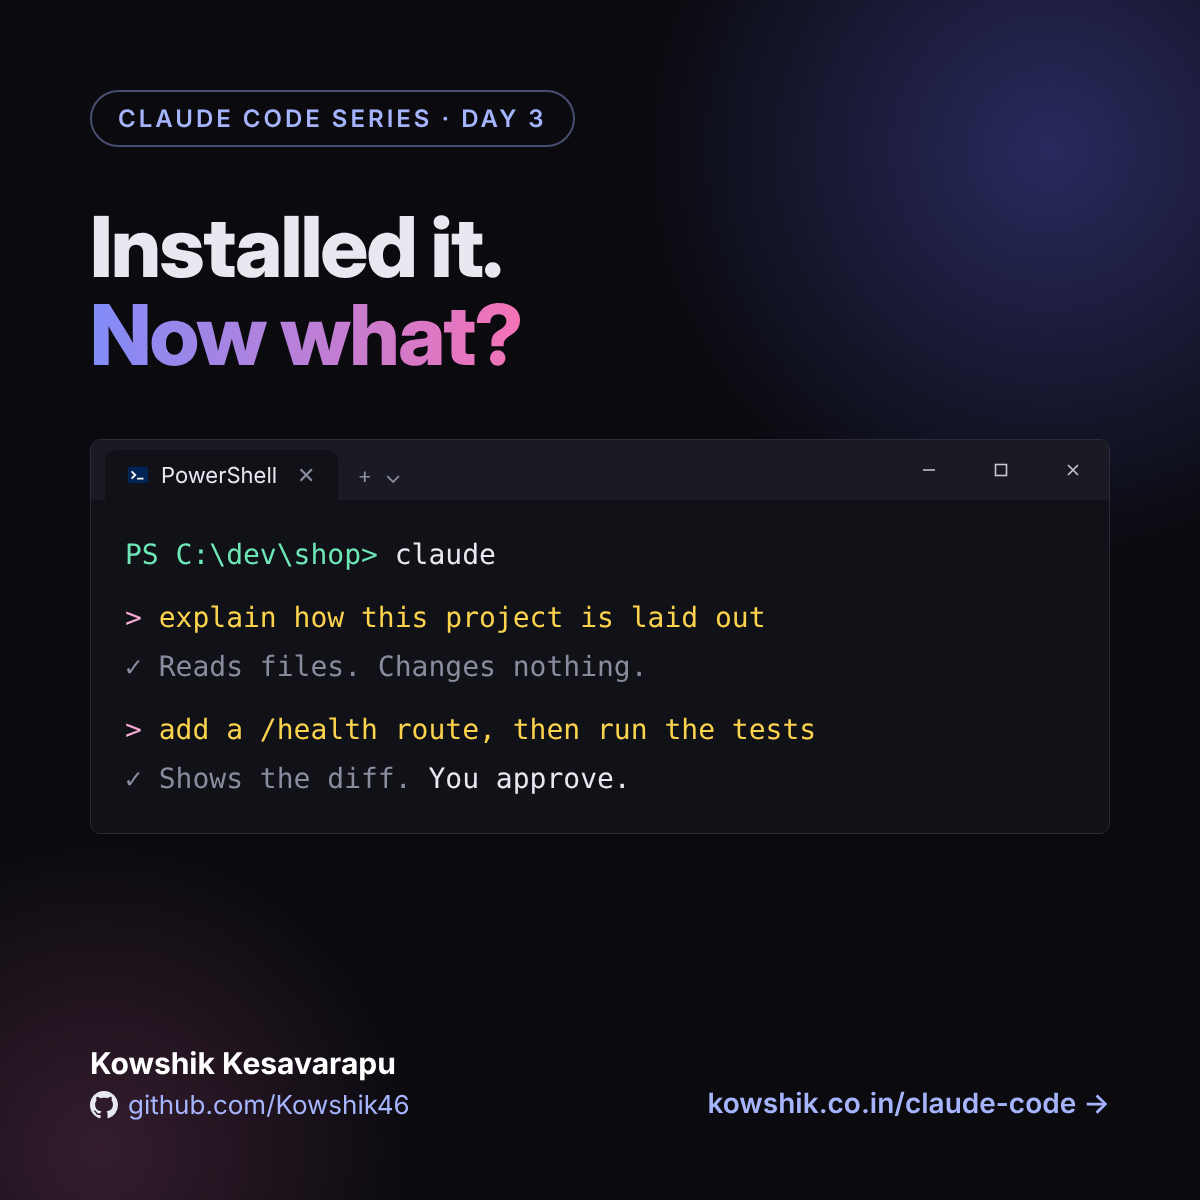
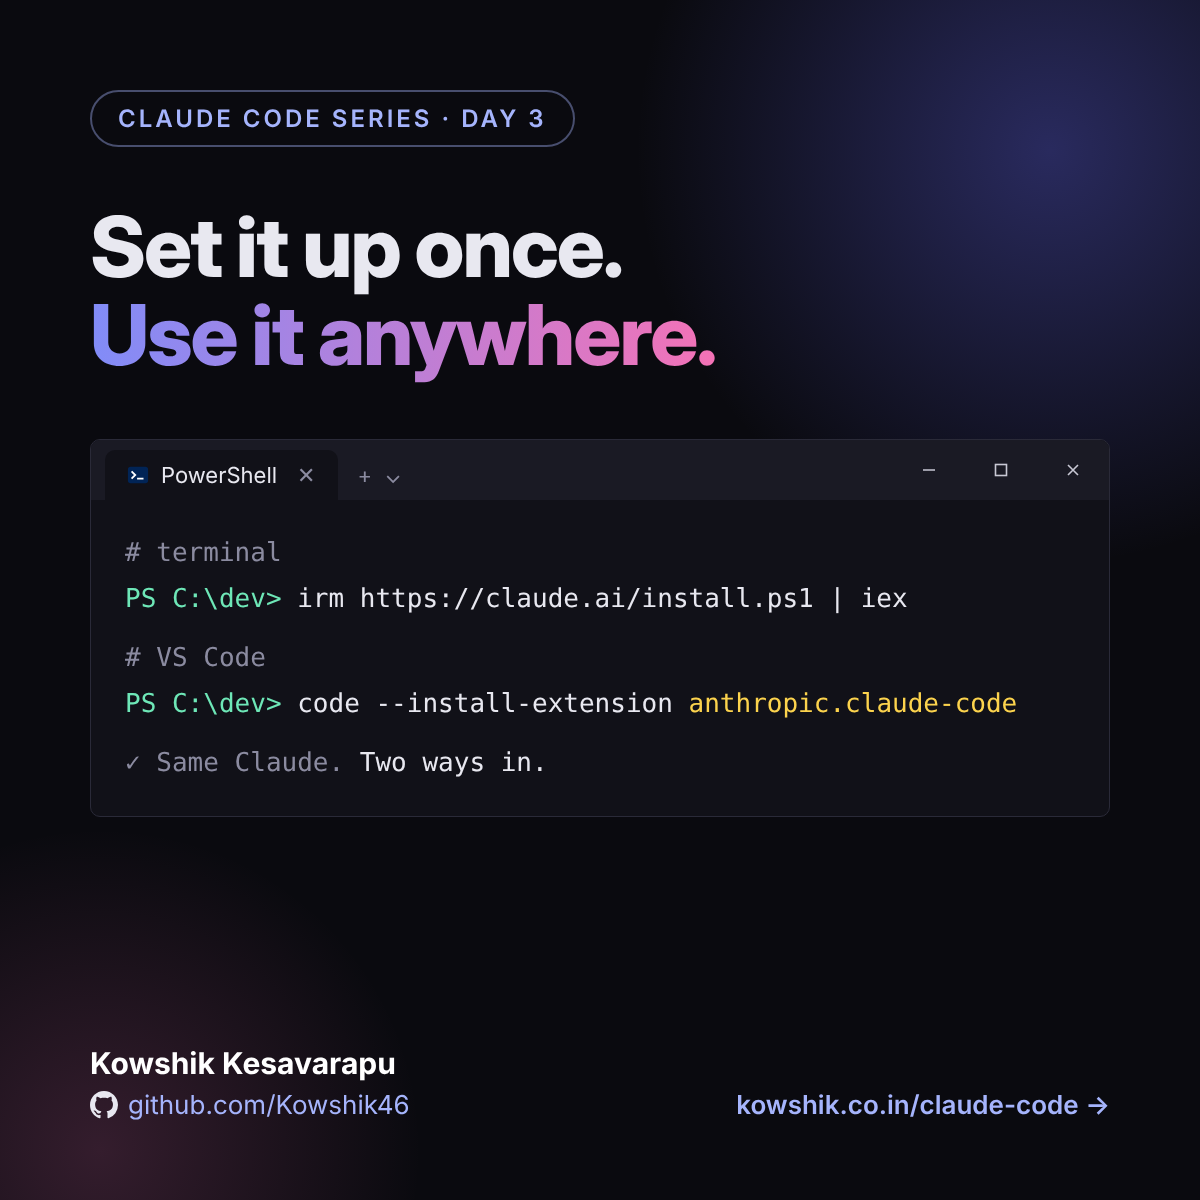
Rework Day 3 into full setup guide: terminal and VS Code, tips, troubleshooting
Claude-Session: https://claude.ai/code/session_014UDmpeyzY3mc8iyZp2Swpj

diff --git a/claude-code/day-03/index.html b/claude-code/day-03/index.html
@@ -3,10 +3,10 @@
 <head>
   <meta charset="UTF-8" />
   <meta name="viewport" content="width=device-width, initial-scale=1.0" />
-  <title>Day 3: Install Claude Code and Run Your First Real Session — Kowshik Kesavarapu</title>
-  <meta name="description" content="How to install Claude Code on Windows, Mac or Linux, sign in, and run a first session that is safe, useful and easy to undo." />
-  <meta property="og:title" content="Day 3: Install it, then run a real first session" />
-  <meta property="og:description" content="Install, sign in, and a first session you can trust." />
+  <title>Day 3: Set Up Claude Code in the Terminal and VS Code — Kowshik Kesavarapu</title>
+  <meta name="description" content="Install Claude Code on Windows, Mac or Linux, add it to VS Code, sign in, and run a first session with tips that save time." />
+  <meta property="og:title" content="Day 3: Set up Claude Code in the terminal and VS Code" />
+  <meta property="og:description" content="Terminal and VS Code setup, plus first-session tips." />
   <meta property="og:image" content="https://kowshik.co.in/claude-code/day-03.png" />
   <meta property="og:url" content="https://kowshik.co.in/claude-code/day-03/" />
   <meta name="twitter:card" content="summary_large_image" />
@@ -46,11 +46,11 @@
   <header class="cc-hero cc-hero-article">
     <div class="cc-wrap">
       <a href="../" class="cc-back"><i class="fas fa-arrow-left"></i> All articles</a>
-      <span class="cc-pill">Day 3 · Getting started</span>
-      <h1>Installed it.<br /><span class="cc-grad">Now what?</span></h1>
+      <span class="cc-pill">Day 3 · Setup</span>
+      <h1>Set it up once.<br /><span class="cc-grad">Use it anywhere.</span></h1>
       <div class="cc-meta">
         <span>By <b>Kowshik Kesavarapu</b></span>
-        <span>6 min read</span>
+        <span>10 min read</span>
         <span>Oct 13, 2026</span>
       </div>
     </div>
@@ -59,57 +59,118 @@
   <main class="cc-wrap">
     <article class="cc-article" id="day-3">
 
-      <h2><span class="num">01</span>Install it</h2>
-      <p>Claude Code runs in your terminal, on Windows, macOS and Linux. The recommended route is the native installer. Open a terminal and run the line for your system:</p>
+      <h2><span class="num">01</span>Pick your way in</h2>
+      <p>Claude Code is the same engine whichever door you use. Pick the one that matches how you already work, and know you can switch later because they share your conversation history.</p>
+      <div class="cc-gaps">
+        <div class="cc-gap">
+          <h3><i>01</i>Terminal (CLI)</h3>
+          <p>The original. Works everywhere, has every command, and is the best fit if you live in a shell or work over SSH.</p>
+        </div>
+        <div class="cc-gap">
+          <h3><i>02</i>VS Code extension</h3>
+          <p>A chat panel inside your editor, with side-by-side diffs, file and selection context, and plan review. The easiest start if VS Code is home.</p>
+        </div>
+        <div class="cc-gap">
+          <h3><i>03</i>Desktop app</h3>
+          <p>A graphical app if you'd rather not use a terminal at all. Not covered today, but worth a look.</p>
+        </div>
+      </div>
+      <p>This article sets up the first two. Most people end up using both: the panel for everyday edits, the terminal for everything else.</p>
 
+      <h2><span class="num">02</span>Setting up the terminal version</h2>
+      <p><b>Check first.</b> You need Windows 10 (1809 or later), macOS 13+, or a recent Ubuntu, Debian or Alpine, with at least 4 GB of RAM and an internet connection. And you need an account: a Claude Pro, Max, Team or Enterprise plan, or an Anthropic Console account. The free Claude plan does not include Claude Code.</p>
+      <p><b>Install.</b> The native installer is the recommended route. Open a terminal and run the line for your system:</p>
       <div class="wt">
         <div class="wt-bar">
           <div class="wt-tab"><span class="wt-ico">&gt;_</span>PowerShell</div>
           <div class="wt-ctl"><span>&#8212;</span><span>&#9744;</span><span>&#10005;</span></div>
         </div>
-<pre><span class="c"># Windows</span>
-<span class="ps">PS C:\&gt;</span> <span class="s">irm https://claude.ai/install.ps1 | iex</span>
+<pre><span class="c"># Windows PowerShell (prompt starts with PS)</span>
+<span class="s">irm https://claude.ai/install.ps1 | iex</span>
 
-<span class="c"># macOS / Linux / WSL</span>
-$ <span class="s">curl -fsSL https://claude.ai/install.sh | bash</span></pre>
+<span class="c"># Windows CMD (no PS in the prompt)</span>
+<span class="s">curl -fsSL https://claude.ai/install.cmd -o install.cmd &amp;&amp; install.cmd &amp;&amp; del install.cmd</span>
+
+<span class="c"># macOS, Linux or WSL</span>
+<span class="s">curl -fsSL https://claude.ai/install.sh | bash</span></pre>
       </div>
-
-      <p>Prefer a package manager? Windows has <code>winget install Anthropic.ClaudeCode</code> and macOS has Homebrew. There is also an npm package (<code>npm install -g @anthropic-ai/claude-code</code>) if you already live in Node. Whichever you pick, close and reopen your terminal afterwards so the <code>claude</code> command is found.</p>
-      <p>Check it worked:</p>
-
+      <p>It prints no progress while it downloads, so don't panic if it looks quiet. When it finishes, <b>open a new terminal window</b> and check:</p>
       <div class="wt">
         <div class="wt-bar">
           <div class="wt-tab"><span class="wt-ico">&gt;_</span>PowerShell</div>
           <div class="wt-ctl"><span>&#8212;</span><span>&#9744;</span><span>&#10005;</span></div>
         </div>
-<pre><span class="ps">PS C:\dev&gt;</span> claude --version
-<span class="ps">PS C:\dev&gt;</span> claude doctor   <span class="c"># checks your install and setup</span></pre>
+<pre><span class="ps">PS C:\dev&gt;</span> claude --version     <span class="c"># prints a version number</span>
+<span class="ps">PS C:\dev&gt;</span> claude doctor        <span class="c"># checks install, settings and updates</span></pre>
       </div>
-
+      <p>Prefer a package manager? Windows has <code>winget install Anthropic.ClaudeCode</code>, macOS has <code>brew install --cask claude-code</code>, and Debian, Fedora and Alpine have apt, dnf and apk repositories. npm works too (<code>npm install -g @anthropic-ai/claude-code</code>, needs Node.js 22 or later). One difference matters: the native installer updates itself in the background, while winget, Homebrew and the Linux package managers do not, so run their upgrade command now and then (or <code>claude update</code> where it applies).</p>
+      <p><b>Windows notes.</b> You don't need to run as Administrator. Git for Windows is optional: with it Claude Code uses Git Bash for shell commands, without it Claude Code uses PowerShell. If you want a Linux toolchain, install inside WSL and use the Linux command there.</p>
       <div class="cc-callout">
-        <p><strong>If something fails:</strong> <code>claude: command not found</code> almost always means the terminal was open before the install, or the install folder isn't on your PATH. Reopen the terminal first. On Windows, if it complains about Git, install Git for Windows and try again. <code>claude doctor</code> tells you what it found.</p>
+        <p><strong>If something fails:</strong> <code>claude</code> not found or not recognized almost always means your terminal was open before the install, so open a new one. Seeing <code>The token '&amp;&amp;' is not a valid statement separator</code> means you pasted the CMD command into PowerShell; <code>'irm' is not recognized</code> means the PowerShell command went into CMD. <code>claude doctor</code> tells you what it found.</p>
       </div>
 
-      <h2><span class="num">02</span>Sign in once</h2>
-      <p>Go to a project folder and type <code>claude</code>. The first run opens your browser to sign in. You need a Claude subscription (Pro or Max) or an Anthropic Console account with API credits. After that it remembers you.</p>
-      <p>It will also ask whether you trust the folder. That prompt is a real safety check, not a formality: Claude Code can read files there and, with your approval, edit them and run commands. Only say yes to folders you actually own or trust.</p>
-
-      <h2><span class="num">03</span>Your first session: look before you touch</h2>
-      <p>The best first prompt changes nothing. Ask it to read:</p>
-
+      <h2><span class="num">03</span>Setting up VS Code</h2>
+      <p>You need VS Code 1.94 or later (check under Help, About) and the same kind of account as above. No API key is needed.</p>
+      <p><b>Install the extension.</b> Press <code>Ctrl+Shift+X</code> (<code>Cmd+Shift+X</code> on Mac), search for <b>Claude Code</b> (publisher: Anthropic) and click Install. Or from a terminal:</p>
       <div class="wt">
         <div class="wt-bar">
           <div class="wt-tab"><span class="wt-ico">&gt;_</span>PowerShell</div>
           <div class="wt-ctl"><span>&#8212;</span><span>&#9744;</span><span>&#10005;</span></div>
         </div>
-<pre><span class="ps">PS C:\dev\shop&gt;</span> claude
+<pre><span class="ps">PS C:\dev&gt;</span> code --install-extension anthropic.claude-code</pre>
+      </div>
+      <p>If it doesn't appear, run <b>Developer: Reload Window</b> from the Command Palette (<code>Ctrl+Shift+P</code>). It also installs in Cursor and other VS Code forks.</p>
+      <p><b>Open it.</b> With a file open, click the Spark icon at the top right of the editor. No file open? Click <b>Claude Code</b> in the bottom-right status bar, or search "Claude Code" in the Command Palette. Then click <b>Sign in</b> and approve in your browser.</p>
+      <p><b>Give it context without typing paths.</b></p>
+      <div class="cc-gaps">
+        <div class="cc-gap">
+          <h3><i>01</i>Select code</h3>
+          <p>Whatever you highlight is visible to Claude. Press <code>Alt+K</code> (<code>Option+K</code> on Mac) to insert a reference like <code>@app.ts#5-10</code> into your prompt.</p>
+        </div>
+        <div class="cc-gap">
+          <h3><i>02</i>@-mention</h3>
+          <p>Type <code>@</code> and part of a name to attach a file, or <code>@src/components/</code> for a folder. It fuzzy-matches, so partial names work.</p>
+        </div>
+        <div class="cc-gap">
+          <h3><i>03</i>Terminal output</h3>
+          <p>Reference a terminal with <code>@terminal:name</code> so Claude can read an error or log without you copy-pasting it.</p>
+        </div>
+      </div>
+      <p><b>Review changes in a real diff.</b> In Manual mode, each edit opens as a side-by-side comparison and waits for you. Accept, reject, or tell Claude what to do instead. You can even edit the proposed text in the diff before accepting.</p>
+      <p><b>Pick a permission mode</b> using the indicator at the bottom of the prompt box: Manual asks before edits and most commands, Plan describes what it will do and waits for your approval, Edit automatically makes edits without asking, and Auto lets a classifier review most actions. While you're learning, use Manual or Plan.</p>
+
+      <p>Shortcuts worth learning on day one:</p>
+      <div class="wt">
+        <div class="wt-bar">
+          <div class="wt-tab"><span class="wt-ico">&gt;_</span>Shortcuts</div>
+          <div class="wt-ctl"><span>&#8212;</span><span>&#9744;</span><span>&#10005;</span></div>
+        </div>
+<pre><span class="c">Windows / Linux      macOS</span>
+<span class="s">Ctrl+Esc</span>             <span class="s">Cmd+Esc</span>           switch editor / Claude
+<span class="s">Ctrl+Shift+Esc</span>       <span class="s">Cmd+Shift+Esc</span>     new conversation in a tab
+<span class="s">Alt+K</span>                <span class="s">Option+K</span>          insert @-reference
+<span class="s">Ctrl+Shift+P</span>         <span class="s">Cmd+Shift+P</span>       type "Claude Code" for every command</pre>
+      </div>
+
+      <p><b>Two more things.</b> Hover over any message for the rewind button: you can revert your code to that point, fork the conversation, or both. And the history button at the top of the panel lets you search and resume earlier conversations.</p>
+      <div class="cc-callout">
+        <p><strong>Terminal inside VS Code:</strong> the extension bundles its own copy of Claude Code for the chat panel, but it does not add <code>claude</code> to your PATH. If you also want to type <code>claude</code> in VS Code's integrated terminal (<code>Ctrl+`</code>), do the terminal install from step 02 once. The two share conversation history, so <code>claude --resume</code> can pick up a panel conversation.</p>
+      </div>
+
+      <h2><span class="num">04</span>Your first session: look before you touch</h2>
+      <p>Open one of your own projects (ideally a git repository) in VS Code, or in a terminal with <code>cd</code>, and start Claude. It may ask whether you trust the folder. That's a real safety check: say yes only to projects you own or trust.</p>
+      <p>The best first prompt changes nothing:</p>
+      <div class="wt">
+        <div class="wt-bar">
+          <div class="wt-tab"><span class="wt-ico">&gt;_</span>PowerShell</div>
+          <div class="wt-ctl"><span>&#8212;</span><span>&#9744;</span><span>&#10005;</span></div>
+        </div>
+<pre><span class="ps">PS C:\dev&gt;</span> claude
 
 &gt; <span class="s">explain how this project is laid out and how to run it</span></pre>
       </div>
-
-      <p>It will open files, follow imports and answer from what it finds. This is the fastest way to learn an unfamiliar codebase, and it is also a test: if the answer is wrong, you've learned what to put in your <code>CLAUDE.md</code> from Day 2.</p>
-      <p>Then make one small real change, with a clear ask:</p>
-
+      <p>It reads files, follows imports and answers from what it finds. This is the fastest way to learn an unfamiliar codebase, and also a test: if the answer is wrong, you've found what to add to your <code>CLAUDE.md</code> from Day 2.</p>
+      <p>Then make one small real change with a clear ask:</p>
       <div class="wt">
         <div class="wt-bar">
           <div class="wt-tab"><span class="wt-ico">&gt;_</span>PowerShell</div>
@@ -118,47 +179,58 @@ $ <span class="s">curl -fsSL https://claude.ai/install.sh | bash</span></pre>
 <pre>&gt; <span class="s">add a /health route to src/server.ts that returns { ok: true }.
   Follow the style of the other routes, then run the tests.</span></pre>
       </div>
+      <p>Read the proposed edits and commands before you approve them, then read the final diff like a teammate's pull request. If you don't like it, <code>git restore .</code> throws the changes away, and in VS Code you can also use the rewind button.</p>
 
-      <p>Notice what happens. Claude <b>proposes</b> each edit and each command, and waits for you. You can approve one at a time, or say no and explain why. Nothing is saved until you allow it.</p>
-
-      <h2><span class="num">04</span>What you'll see while it works</h2>
+      <h2><span class="num">05</span>Tips that save you time</h2>
       <div class="cc-gaps">
         <div class="cc-gap">
-          <h3><i>01</i>Permission prompts</h3>
-          <p>Before editing a file or running a command it asks. Read what it is about to do. This is you staying in control (we'll go deeper on permissions later in the series).</p>
+          <h3><i>01</i>Work inside git</h3>
+          <p>Commit before you start. Then trying something is cheap: <code>git diff</code> shows what changed and <code>git restore .</code> undoes it.</p>
         </div>
         <div class="cc-gap">
-          <h3><i>02</i>Diffs</h3>
-          <p>Edits appear as a before and after. Check them like you'd check a teammate's pull request.</p>
+          <h3><i>02</i>Read first, write second</h3>
+          <p>Ask it to explain or plan before it edits. Plan mode is made for this: it proposes, you approve.</p>
         </div>
         <div class="cc-gap">
-          <h3><i>03</i>Esc to stop</h3>
-          <p>Heading the wrong way? Press <code>Esc</code> to interrupt, then redirect. Two Esc presses let you step back to an earlier message.</p>
+          <h3><i>03</i>One task per session</h3>
+          <p>Finished something? Type <code>/clear</code> to start fresh. Old, unrelated chat only clutters its context.</p>
+        </div>
+        <div class="cc-gap">
+          <h3><i>04</i>Name the file</h3>
+          <p>"Fix the bug in <code>src/auth.ts</code>" beats "fix the login bug". Less searching, fewer wrong guesses.</p>
+        </div>
+        <div class="cc-gap">
+          <h3><i>05</i>Press Esc early</h3>
+          <p>Going the wrong way? Interrupt right away and redirect. Don't wait for it to finish a bad idea.</p>
+        </div>
+        <div class="cc-gap">
+          <h3><i>06</i>Check your setup</h3>
+          <p><code>/status</code> shows your version, account and model. <code>claude doctor</code> diagnoses problems.</p>
+        </div>
+        <div class="cc-gap">
+          <h3><i>07</i>Let it run your tests</h3>
+          <p>Say "run the tests" in the ask. When it can verify its own work, you review less.</p>
+        </div>
+        <div class="cc-gap">
+          <h3><i>08</i>Resume, don't repeat</h3>
+          <p><code>claude --continue</code> resumes the last session here, <code>claude --resume</code> lets you choose one.</p>
         </div>
       </div>
 
-      <h2><span class="num">05</span>Leaving and coming back</h2>
-      <p>Type <code>/exit</code> (or press Ctrl+C twice) to quit. Your conversation is saved, so you can pick up where you stopped:</p>
-
-      <div class="wt">
-        <div class="wt-bar">
-          <div class="wt-tab"><span class="wt-ico">&gt;_</span>PowerShell</div>
-          <div class="wt-ctl"><span>&#8212;</span><span>&#9744;</span><span>&#10005;</span></div>
+      <h2><span class="num">06</span>When it doesn't work</h2>
+      <div class="cc-gap">
+        <div class="cc-vs">
+          <div class="bad"><small>Symptom</small><code>claude</code> not found<br>No Spark icon in VS Code<br>Asked to sign in again<br>Panel never responds</div>
+          <div class="good"><small>Try this</small>Open a new terminal; run the install again if still missing<br>Open a file first, or use the status bar; check VS Code is 1.94+; reload the window<br>Sign in again, and launch VS Code from a terminal with <code>code .</code> if you use an API key variable<br>Check your connection, start a new conversation, then run <code>claude</code> in a terminal for a clearer error</div>
         </div>
-<pre><span class="ps">PS C:\dev\shop&gt;</span> claude --continue   <span class="c"># resume the last session in this folder</span>
-<span class="ps">PS C:\dev\shop&gt;</span> claude --resume     <span class="c"># choose from earlier sessions</span></pre>
       </div>
 
-      <div class="cc-callout">
-        <p><strong>Safety net:</strong> run your first sessions inside a git repository. If a change isn't what you wanted, <code>git diff</code> shows it and <code>git restore .</code> throws it away. Trying things is cheap when undo is one command.</p>
-      </div>
-
-      <h2><span class="num">06</span>Try this today</h2>
+      <h2><span class="num">07</span>Try this today</h2>
       <div class="cc-loop">
-        <div><b>Install</b><span>Run the installer, then <code>claude doctor</code>.</span></div>
-        <div><b>Read</b><span>Ask it to explain a project you know. Check its answer.</span></div>
-        <div><b>Change</b><span>One small edit, with a file and a "done".</span></div>
-        <div><b>Review</b><span>Read the diff. Keep it or <code>git restore .</code>.</span></div>
+        <div><b>Install</b><span>Terminal install, then <code>claude doctor</code>.</span></div>
+        <div><b>Add VS Code</b><span>Install the extension and sign in.</span></div>
+        <div><b>Read</b><span>Ask it to explain a project you know. Check the answer.</span></div>
+        <div><b>Change</b><span>One small edit. Review the diff. Keep or undo.</span></div>
       </div>
 
       <p>Next up: talking to it. Prompts that get the result you meant the first time.</p>

diff --git a/claude-code/index.html b/claude-code/index.html
@@ -48,11 +48,11 @@
     <section class="cc-latest">
       <h2 class="cc-h2">Articles</h2>
       <a href="day-03/" class="cc-card">
-        <img src="day-03.png" alt="Day 3: Installed it. Now what?" loading="lazy" />
+        <img src="day-03.png" alt="Day 3: Set it up once. Use it anywhere." loading="lazy" />
         <div class="cc-card-body">
-          <div class="cc-card-meta"><span class="cc-tag">Day 3</span><span>Getting started</span><span>6 min read</span><span>Oct 13, 2026</span></div>
-          <h3>Installed it. Now what?</h3>
-          <p>Install on Windows, Mac or Linux, sign in, and run a first session that is safe, useful and easy to undo. Look first, then make one small change.</p>
+          <div class="cc-card-meta"><span class="cc-tag">Day 3</span><span>Setup</span><span>10 min read</span><span>Oct 13, 2026</span></div>
+          <h3>Set it up once. Use it anywhere.</h3>
+          <p>Install Claude Code in the terminal and in VS Code on Windows, Mac or Linux, with shortcuts, a safe first session, eight tips and fixes for the usual snags.</p>
           <span class="cc-more">Read Day 3 <i class="fas fa-arrow-right"></i></span>
         </div>
       </a>
@@ -84,7 +84,7 @@
         <h3>Foundations</h3>
         <ul class="cc-list">
           <li class="live"><span class="d">Day 1</span><a href="day-01/" class="t">Introduction: using it vs. using it well</a><span class="st">Live</span></li>
-          <li class="live"><span class="d">Day 3</span><a href="day-03/" class="t">Installing and your first real session</a><span class="st">Live</span></li>
+          <li class="live"><span class="d">Day 3</span><a href="day-03/" class="t">Setup: terminal and VS Code, plus first-session tips</a><span class="st">Live</span></li>
           <li><span class="d">Next</span><span class="t">Talking to it: prompts that get the right result</span><span class="st">Soon</span></li>
           <li><span class="d">Next</span><span class="t">Slash commands and shortcuts worth knowing</span><span class="st">Soon</span></li>
         </ul>
